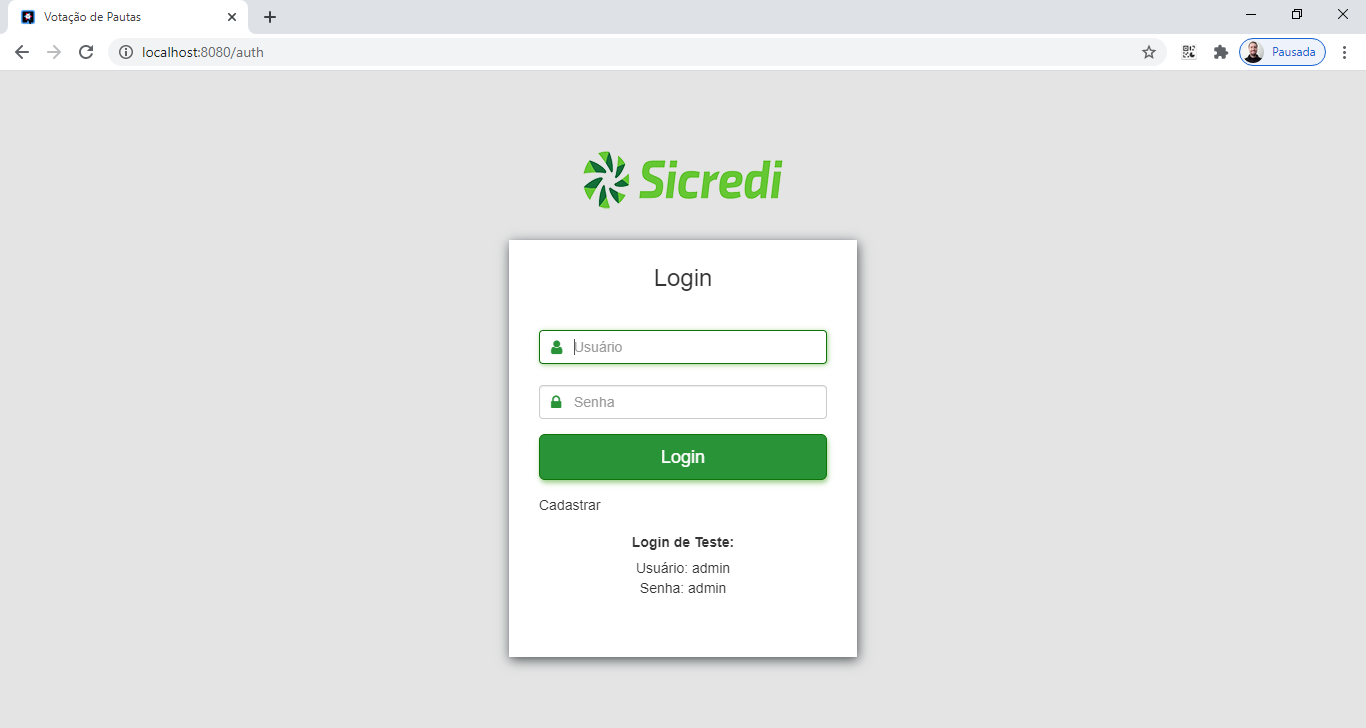
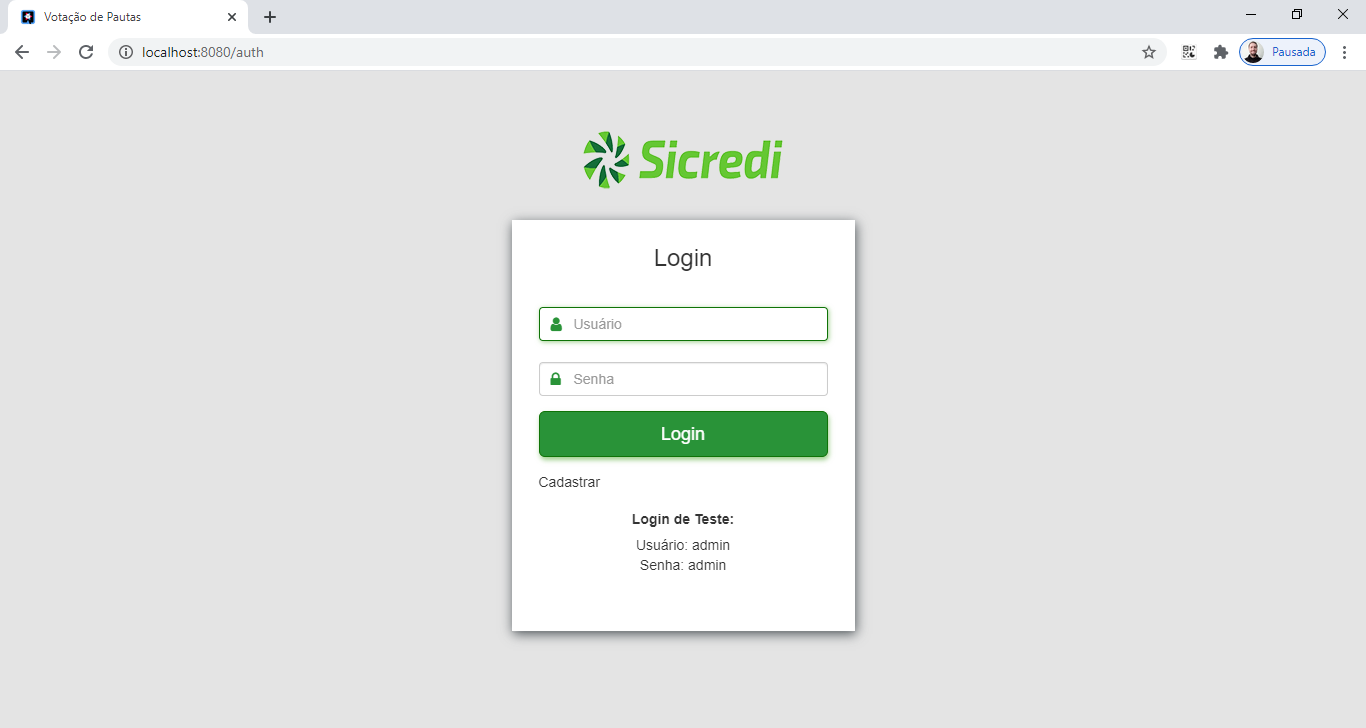
Ajustes no css

diff --git a/src/main/resources/templates/login.html b/src/main/resources/templates/login.html
@@ -13,11 +13,11 @@
                 <form method="POST" name="loginForm" id="loginForm" enctype="multipart/form-data">
                     <div class="form-group">
                         <i class="fa fa-user"></i>
-                        <input type="text" name="username" id="username" class="form-control input-login" autofocus="autofocus" placeholder="Usuário"/>
+                        <input type="text" name="username" id="user" class="form-control input-login" autofocus="autofocus" placeholder="Usuário"/>
                     </div>
                     <div class="form-group">
                         <i class="fa fa-lock"></i>
-                        <input type="password" name="password" id="password" class="form-control input-login" placeholder="Senha"/>
+                        <input type="password" name="password" id="pass" class="form-control input-login" placeholder="Senha"/>
                     </div>
                     <div class="form-group">
                         <input type="submit" id="login" value="Login" class="btn btn-login btn-lg btn-block"/>
@@ -25,7 +25,7 @@
                 </form>
                 <a href="#" id="flip-btn">Cadastrar</a>
                 {#if error != null}<div class="alert alert-danger" role="alert">{error}</div>{/if}
-                <div id="error"></div>
+                <div id="alert"></div>
                 <br />
                 <div class="text-center">
                     <div class="login-teste">Login de Teste:</div>

diff --git a/src/main/resources/META-INF/resources/assets/js/login.js b/src/main/resources/META-INF/resources/assets/js/login.js
@@ -16,8 +16,8 @@ $(document).ready(function() {
     window.history.pushState("", "", "/auth");
     $("#loginForm").submit(function(event){
         var data = {
-            username: $("#username").val(),
-            password: $("#password").val()
+            username: $("#user").val(),
+            password: $("#pass").val()
         };
 
         $.ajax({
@@ -26,9 +26,13 @@ $(document).ready(function() {
             type: "POST",
             cache: false,
             contentType: "application/json",
+            beforeSend: function() {
+                if($("#user").val() != null && $("#pass").val() != null)
+                    $("#alert").text("Carregando...").removeClass().addClass("alert alert-warning");
+            },
             success: function(result) { 
                 if(!result) {
-                    $("#error").text("Usuário ou senha inválido.").addClass("alert alert-danger");
+                    $("#alert").text("Usuário ou senha inválido.").addClass("alert alert-danger");
                     $(".alert-success").remove();
                     return false;
                 } else {

diff --git a/src/main/resources/META-INF/resources/assets/css/style.css b/src/main/resources/META-INF/resources/assets/css/style.css
@@ -25,6 +25,12 @@ h3, .h3 {
     padding-bottom: 8px !important;
     font-size: 24px;
 }
+a:hover {
+    text-decoration: underline !important;
+}
+a:hover.btn {
+    text-decoration: none !important;
+}
 
 .container-fluid {
     padding-left: 45px !important;
@@ -269,6 +275,9 @@ fieldset {
     padding-right: 5px !important;
 }
 
+.navbar-nav .dropdown a:hover {
+    text-decoration: none !important;
+}
 .navbar-nav .open .dropdown-menu {
     background-color: #299338 !important;
     color: #ffffff !important;
@@ -276,6 +285,7 @@ fieldset {
 .navbar-nav .dropdown-menu > li > a, .navbar-nav .dropdown-menu > li > a:hover {
     background-color: #299338 !important;
     color: #ffffff !important;
+    text-decoration: none !important;
 }
 
 .navbar-toggle {
@@ -292,6 +302,7 @@ fieldset {
 .menu-item a:hover {
     color: #fff !important;
     background-color: #299338 !important;
+    text-decoration: none !important;
 }
 
 .menubar {
@@ -359,7 +370,7 @@ fieldset {
 }
 
 .form-panel {
-    padding: 15px !important;
+    padding: 12px !important;
 }
 
 .modal-content {

diff --git a/src/main/resources/META-INF/resources/assets/js/modal.js b/src/main/resources/META-INF/resources/assets/js/modal.js
@@ -54,7 +54,7 @@ $(document).ready(function() {
     }
 
     function submitted(url, data) {
-        $(".lobibox-body").html("<div class='alert alert-info'>Carregando...</div>");
+        $(".lobibox-body").html("<div class='alert alert-warning'>Carregando...</div>");
         $.ajax({
             url: url,
             data: data,
@@ -102,7 +102,7 @@ $(document).ready(function() {
             title: title,
             content: function(){ 
                 loadModal(url); 
-                return "<div class='alert alert-info'>Carregando...</div>";
+                return "<div class='alert alert-warning'>Carregando...</div>";
             },
             width: 440,
             height: 470
